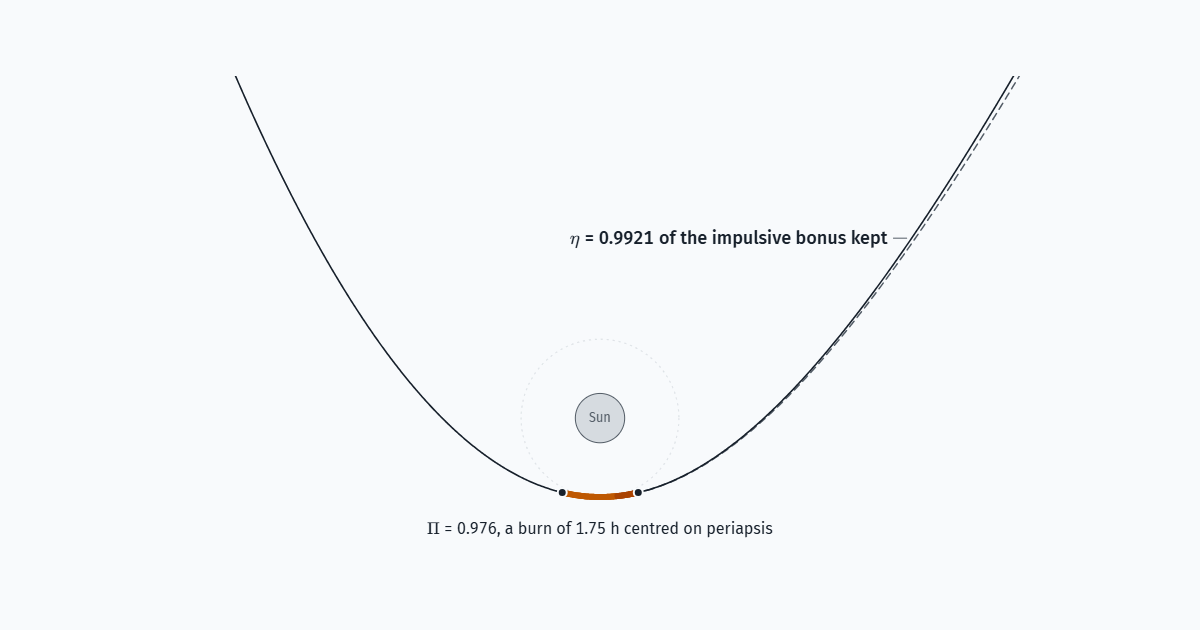
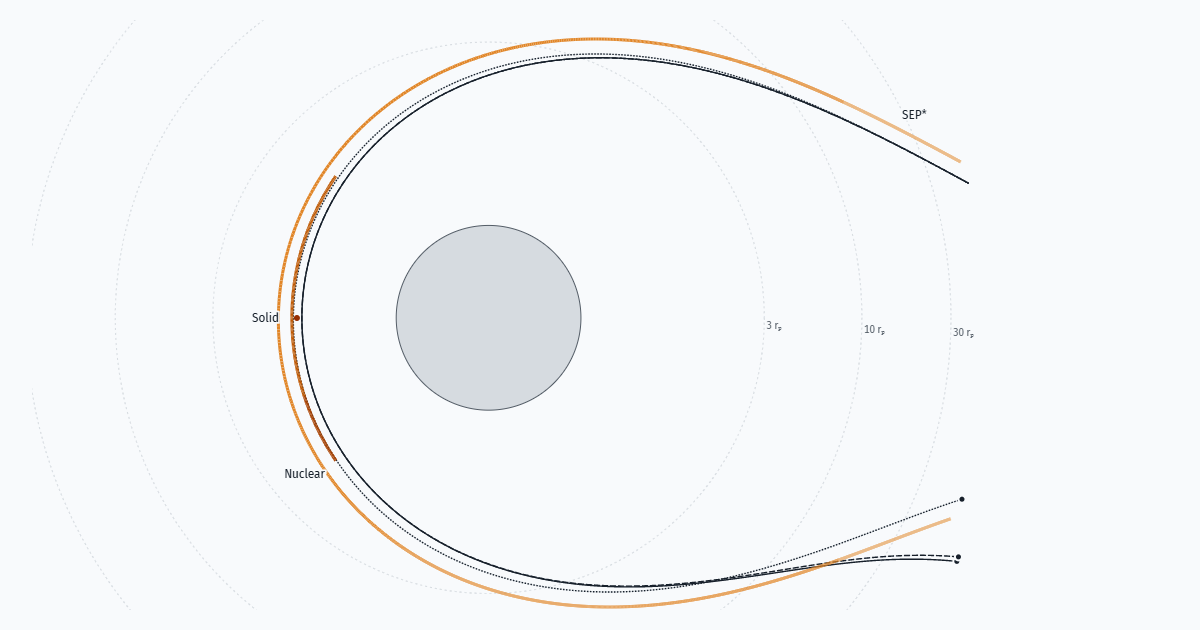
Open Graph image from the landing hero (tools/og-image.mjs: the dive, all three engines in their lanes, 1200 x 630); the dive is centred across its view; og:image:alt describes the new picture

diff --git a/site/src/charts/landing-hero.ts b/site/src/charts/landing-hero.ts
@@ -125,10 +125,12 @@ export function landingHero(root: HTMLElement, body: HTMLElement, d: EnginesData
     const lane = narrow ? 4 : 5;                              // px between lanes
     // Room around the paths: the lanes and their labels (the solid stack's label on the left, the SEP label above).
     const pad = { left: narrow ? 58 : 70, right: 8, top: narrow ? 26 : 34, bottom: narrow ? 12 : 18 };
-    const cap = narrow ? 214 : 360;                          // the hero's height cap (above the fold: author, 2026-10-21)
+    // The hero's height cap (above the fold: author, 2026-10-21); data-height-cap overrides it for tools/og-image.mjs.
+    const cap = Number(root.dataset.heightCap) || (narrow ? 214 : 360);
     const sc = Math.min((W - pad.left - pad.right) / (xMax - xMin), (cap - pad.top - pad.bottom) / (yMax - yMin));
     const H = Math.round((yMax - yMin) * sc + pad.top + pad.bottom);
-    const ox = pad.left + xMax * sc, oy = pad.top - yMin * sc;   // the Sun's centre
+    // The Sun's centre; the drawing is centred across the view when the view is wider than it needs.
+    const ox = pad.left + xMax * sc + Math.max(0, (W - pad.left - pad.right - (xMax - xMin) * sc) / 2), oy = pad.top - yMin * sc;
     const P = (e: DiveCase, i: number): [number, number] => [ox - e.X[i] * sc, oy + e.Y[i] * sc];
     const dpr = Math.min(window.devicePixelRatio || 1, 2);
     canvas.width = Math.round(W * dpr); canvas.height = Math.round(H * dpr);

diff --git a/site/plugins/content-plugin.ts b/site/plugins/content-plugin.ts
@@ -178,7 +178,7 @@ export function pagePath(file: string, root: string): string {
  * Open Graph and Twitter-card tags for a page, from its own <title> and description (nothing to keep in step).
  * og:image and og:url must be absolute: SITE_URL (the deployed root, set by the Pages workflow from
  * actions/configure-pages) is used when present, else the base path. The 404 page gets none (noindex).
- * The image, public/og-image.png (1200 × 630), is made from the hero by tools/og-image.mjs.
+ * The image, public/og-image.png (1200 × 630), is made from the landing page's hero by tools/og-image.mjs.
  */
 function socialMeta(html: string, path: string, base: string): string {
   if (/404\.html$/.test(path)) return "";
@@ -190,7 +190,7 @@ function socialMeta(html: string, path: string, base: string): string {
     tag("property", "og:title", title) + tag("property", "og:description", desc) + tag("property", "og:url", root + path) +
     tag("property", "og:image", `${root}og-image.png`) + tag("property", "og:image:width", "1200") +
     tag("property", "og:image:height", "630") +
-    tag("property", "og:image:alt", "A flyby trajectory bending around the Sun, with the burn arc coloured by the rate of energy gain") +
+    tag("property", "og:image:alt", "Three engines flying the same dive around the Sun, each burn drawn beside its path and coloured by the rate of energy gain") +
     tag("name", "twitter:card", "summary_large_image");
 }
 
